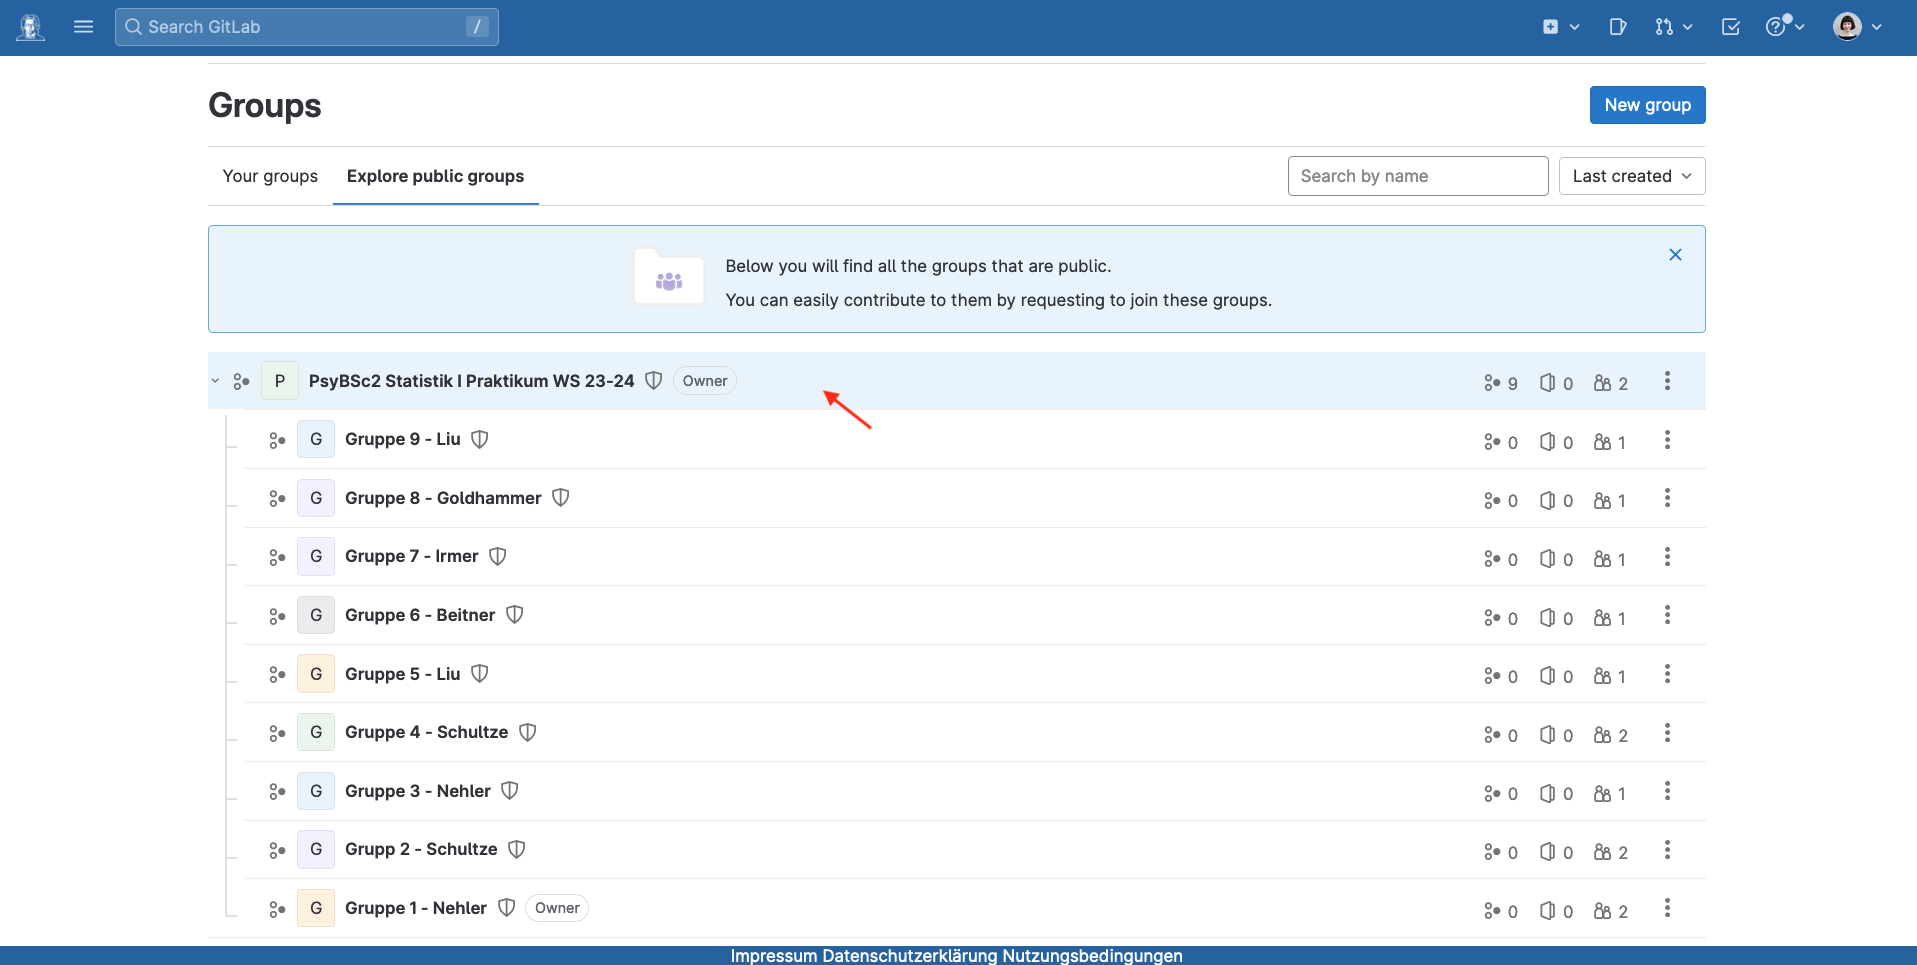
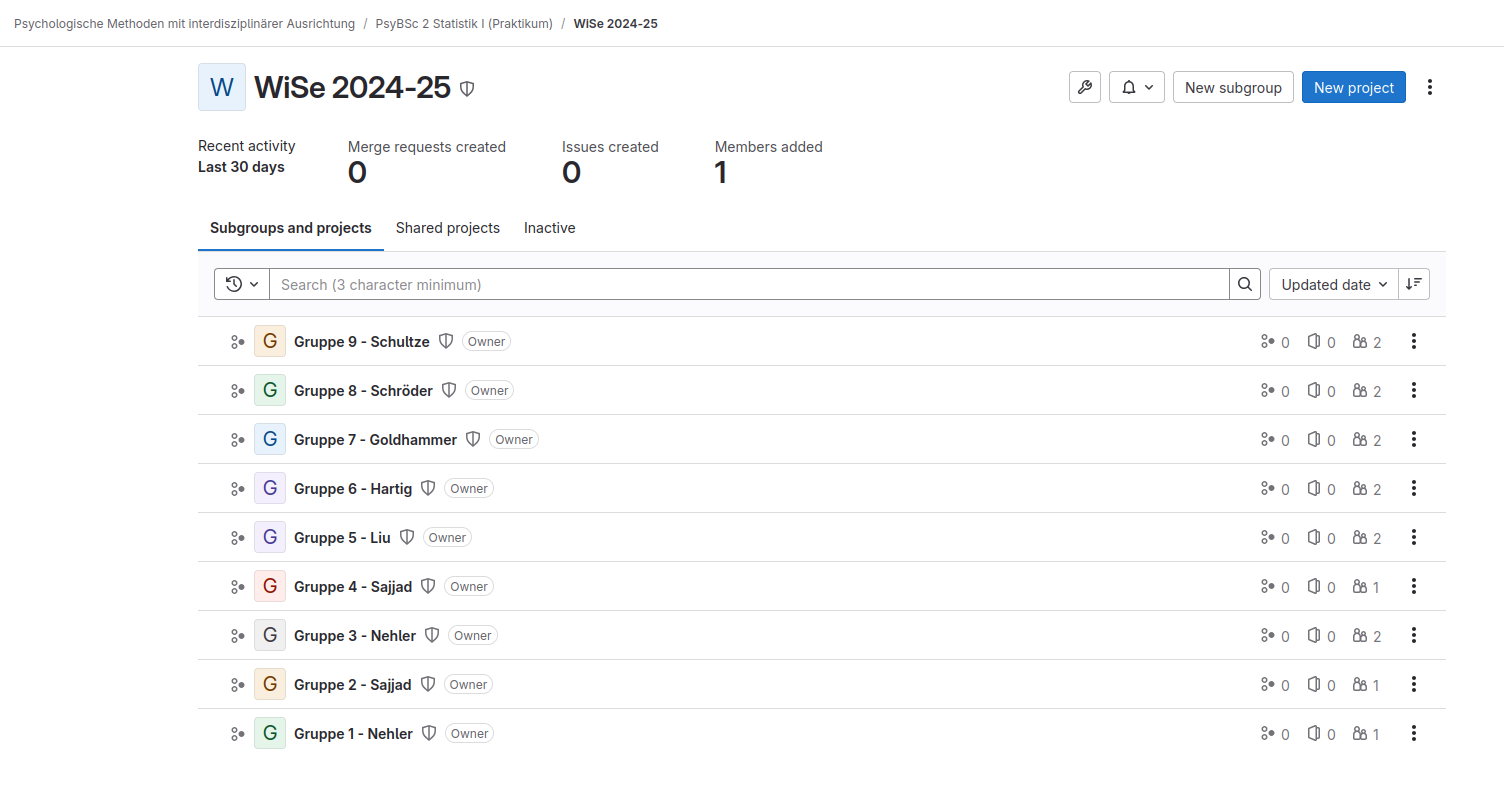
Update lifos and group project tutorials for new semester (minus requesting access).

diff --git a/content/lehre/statistik-i/gruppenprojekt.md b/content/lehre/statistik-i/gruppenprojekt.md
@@ -9,7 +9,7 @@ subtitle: ''
 summary: 'In diesem Beitrag finden Sie noch einmal alle Informationen, die das Gruppenprojekt betreffen, das Sie im Rahmen des Statistik-Praktikums durchführen. Dabei wird ausführlich auf die Generierung und Operationalisierung von Hypothesen eingegangen, außerdem gibt es Informationen zur Präregistrierung und zu der Erstellung des Ergebnisbericht, den Sie im Sinne von Open Science auf einer Übungsplattform bereitstellen sollen.' 
 authors: [nehler, beitner, schueller, schultze]
 weight: 14
-lastmod: '2024-04-02'
+lastmod: '2024-11-15'
 featured: no
 banner:
   image: "/header/frog_collective.jpg"
@@ -50,7 +50,7 @@ Bestandteile der Gruppenarbeit sind das Generieren und auch (mit Unterstützung)
 
 - Wie können geeignete [**Hypothesen generiert**](#Hypothesengenerierung) werden?
 - Wie können diese [**Hypothesen operationalisiert**](#Operationalisierung) werden?
-- Was ist [**Präregistrierung**](#Präregistrierung) und wie können Sie Ihr Projekt präregistrieren?
+- Was ist eine [**Präregistrierung**](#Präregistrierung) und wie können Sie Ihr Projekt präregistrieren?
 - Wie wird der [**Online-Fragebogen**](#Online-Fragebogen) umgesetzt?
 - Wie wird die [**Datenanalyse**](#Auswertung) ablaufen?
 - Was sind die Bestandteile ihres [**Ergebnisberichts**](#Bericht)?
@@ -187,6 +187,80 @@ Eine Präregistrierung hat zudem den positiven Nebeneffekt, dass Sie als Forsche
 
 Den ersten Kontakt mit Aspekten von Open Science sollen Sie in einem geschützten Umfeld haben, weshalb wir die Übungsplattform LIFOS erstellt haben. Eine ausführliche Beschreibung zur Navigation auf LIFOS im Rahmen des Praktikums finden Sie [hier](/lehre/statistik-i/quickguide-lifos).
 
+## Fragen der Präregistrierung
+
+In dem Dokument werden Sie zu 10 Bereichen befragt. Im Vergleich zu anderen Vorlagen ist das Dokument reduziert, enthält jedoch die wichtigsten Informationen.
+
+### 1) Autor:innen und Betreuungspersonen
+
+Hier tragen Sie bitte die Namen aller Gruppenmitglieder ein. Die Betreuungsperson ist in diesem Fall die Praktikumsleitung.
+
+
+### 2) Name
+
+Hier müssen Sie Ihrem Projekt einen aussagekräftigen Namen geben. Dieser kann auch englisch sein.
+
+
+### 3) Datenerhebung
+
+Hier wird danach gefragt, ob Sie für diese Untersuchung bereits Daten erhoben haben. Wenn dem so sein sollte, handelt es sich um eine *Sekundäranalyse* bereits bestehender Daten (mehr dazu in PsyBSc 1). Solche Studien sind zwar vollkommen legitime Möglichkeiten des Forschens, aber nicht für diese spezifische Präregistrierungsvorlage geeignet. Darüber hinaus geht es in diesem Modul darum, dass Sie erste Erfahrungen mit einer empirischen *Primäranalyse* sammeln. Letztlich ist es also nur legitim, Daten zu nutzen, die zum Zeitpunkt der Präregistrierung noch nicht gesammelt wurden und bei diesem Punkt wahrheitsgemäß "Nein" zu wählen.
+
+
+
+
+### 4) Hypothesen {#hypo}
+
+Hier geht es darum, dass Sie die Forschungsfragen und Hypothesen klar und eindeutig ausformulieren. Dazu können Sie z.B. nochmal in den [Abschnitt zur Hypothesengenerierung](#Hypothesengenerierung) rein gucken. Darüber hinaus sollten Sie diese Hypothesen aber unbedingt vor der Präregistrierung schon mit Ihrem/Ihrer Dozent:in besprochen haben. Für das Projekt in diesem Semester sollten Sie hier mindestens zwei Hypothesen aufstellen - eine Unterschieds- und eine Zusammenhangshypothese.
+
+
+
+<!-- ### 5) Variablen -->
+
+Hier geht es darum, die Variablen zu beschreiben, die in Ihren Hypothesen vorkommen. In den meisten Fällen psychologischer Forschung handelt es sich hier um psychische Konstrukte oder Eigenschaften von Personen, sodass es auch relevant ist hier klar zu machen, wie diese gemessen werden sollen - im Praktikum also die dafür verwendeten, vorher validierten Fragebögen.
+
+Weiterhin müssen Sie auch die demografischen Variablen aufführen und spezifizieren, wie diese erhoben werden sollen. Geben Sie vor allem auch die möglichen Antwortoptionen, bzw. das zugrundeliegende Skalenniveau an.
+
+### 6) Analysen
+
+An dieser Stelle geht es darum, klar darzulegen welche Analysen durchgeführt werden um die unter [Punkt 4](#hypo) dargelegten Hypothesen zu prüfen. Das heißt Ihnen sollte schon vor der Studie klar sein, welche Hypothese Sie mit welchem Verfahren prüfen können. Weil sich hier wahrscheinlich Tests und Verfahren eignen, die wir weder in der Vorlesung noch im Praktikum besprochen haben, wenn Sie die Präregistrierung abschließen, macht es hier sehr viel Sinn, Rücksprache mit Ihrem/Ihrer Dozent:in zu halten.
+
+
+### 7) Ausreißer und Ausschlüsse
+
+Einer der Schritte im Auswertungsprozess an dem es am häufigsten zu "Irregularitäten" kommt, ist der Ausschluss von Daten. Dieser Schritt soll dazu dienen, Daten von Personen auszuschließen die aus verschiedenen Gründe die wissenschaftliche Integrität der Untersuchung gefährden, z.B. durch:
+
+* Abbruch der Befragung
+* Absichtliches Fehlverhalten der Befragten, mit dem Ziel die Untersuchung zu stören
+* "Musterkreuzen", um die Befragung schnellstmöglich abzuschließen
+* Missverständnis der Aufgabenstellung
+
+Solche Fälle sollen identifiziert und möglichst ausgeschlossen werden. Aber auch Personen, die nicht zur *Zielpopulation* gehören, sollen idealerweise nicht in die Auswertung aufgenommen werden. Wenn Sie z.B. die aktuelle Stimmung von Studierenden untersuchen möchten, sollten Personen ausgeschlossen werden, die keine Studierenden sind. Wenn Sie sich darüber hinaus auf die gesunde Grundgesamtheit Psychologiestudierender beziehen wollen, sollten Sie diejenigen Personen ausschließen können, die an einer diagnostizierten affektiven Störung (z.B. einer Depression) leiden. All diese möglichen Gründe, Personen auszuschließen, sollten vorab bedacht werden und es sollten klar Regeln dazu aufgestellt werden, wann Daten aus der Analyse ausgeschlossen werden. Durch Willkür in diesem Punkt können sich Ergebnisse sehr leicht manipulieren lassen, wodurch die Vertrauenswürdigkeit der Studie verloren geht.
+
+Ausreißerdiagnostik beschäftigt sich mit Personen, die ungewöhnliche Werte oder Wertkonstellationen aufweisen. Dabei wird häufig geschaut, ob sie einen überproportionalen Einfluss auf die Ergebnisse haben und sich durch ihre Anwesenheit die Ergebnisse verzerren. Auch hier sollten klare Regeln aufgestellt werden, wann Personen als Ausreißer identifiziert und ausgeschlossen werden. Damit werden wir uns allerdings erst im nächsten Semester näher beschäftigen.
+
+
+
+### 8) Stichprobengröße und -erhebung
+
+Wie viele Personen möchten Sie erheben? In den meisten Fällen kann vorab mittels einer sog. *Poweranalyse* bestimmt werden, wie viele Personen Sie erheben müssen, um mit adäquater Irrtumswahrscheinlichkeit Ihre Hypothesen prüfen zu können. Wichtig ist hier, dass Sie sich durch die hier angegeben Zahl verpflichten, die Erhebung dieser Anzahl von Personen mit allen Ihnen zur Verfügung stehenden Mitteln zu versuchen.
+
+Die Poweranalyse lernen wir erst im Laufe des Semesters kennen und können Sie deshalb jetzt noch nicht durchführen. Die Zielgröße für unsere Studien legen wir deshalb pauschal auf 40 Versuchspersonen fest.
+
+Auch der Zeitraum der Erhebung wird in diesem Punkt festgelegt. Hier sollten Sie sich überlegen, wie lange Sie brauchen, um die gewünschte Anzahl an Personen zu erheben. Auch hier sollten Sie sich durch die Angabe verpflichten, die Erhebung in diesem Zeitraum durchzuführen. Im Rahmen des Praktikums wird dieser Zeitraum von der Praktikumsleitung festgelegt.
+
+
+### 9) Kontext
+
+Hier muss angegeben werden, in welchem Kontext die Studie durchgeführt wird. Das kann z.B. ein Praktikum, eine Abschlussarbeit oder eine Studie im Rahmen eines Seminars sein. Weiterhin ist auch interessant, ob die präregistrieten Vorhaben eine alleinige Studie darstellen, oder, ob sie in einem größeren Forschungsvorhaben bzw. in einger größeren Befragung eingebettet sind. 
+
+### 10) Sonstiges
+
+In diesem Feld geht es vor allem darum, zusätzliche Untersuchungsschritte festzuhalten, die nicht an klare Hypothesen gebunden sind. Das betrifft vor allem *explorative Analysen*, also Analysen, die sich auf Forschungsfragen beziehen, zu denen Sie noch keine konkreten Annahmen generieren konnten. Ziel solcher Exploration ist es, eine empirische Grundlage für die Theoriebildung für zukünftige Studien zu entwickeln.
+
+
+
+
+
 # 4. Erstellung des Fragebogens {#Online-Fragebogen}
 Fragebögen können in Papierform oder auch online durchgeführt werden. In diesem Praktikum wird die Datenerhebung über einen Online-Fragebogen durchgeführt. Sie müssen den Fragebogen nicht selber erstellen -- dies wird von der Praktikumsleitung übernommen. Der erstellte Fragebogen umfasst dann alle Fragestellungen aus Ihrer Praktikumsgruppe. Damit genug Personen erhoben werden können, bewerben Sie den Fragebogen (besonders bei anderen Psychologie-Studierenden, denn es können Versuchspersonenminuten gesammelt werden).
 
@@ -220,12 +294,12 @@ Auch bei der Abgabe Ihrer Studienleistung legen wir auf das Üben von Open Scien
 
 Bitte beachten Sie zusammenfassend: 
 * jeweils eine Unterschieds- und Zusammenhangshypothese -- stimmen Sie die entwickelten Hypothesen mit dem/der Dozent:in Ihres Kurses ab
-* Operationalisierung für zusätzliche Variablen im Rahmen Ihrer Hypothesen muss mit Praktikumsleitung abgesprochen werden $\rightarrow$ **Stichtag 26.11.2023**
-* Präregistrierung Ihres Forschungsvorhabens ist Pflicht $\rightarrow$ **Stichtag für erste Abgabe 15.12.2023** -- **(eventuell) final nach Einarbeitung von Feedback bis zum 22.12.2023**
+* Operationalisierung für zusätzliche Variablen im Rahmen Ihrer Hypothesen muss mit Praktikumsleitung abgesprochen werden 
+* Präregistrierung Ihres Forschungsvorhabens ist Pflicht 
 * Bewerben Sie die Umfrage aus Ihrem Praktikum in Gruppen -- Teilnahme an den Studien bringt Versuchspersonenminuten
 * Auswertung wird in einem Präsenztermin gestartet, muss dann aber als Gruppe weitergeführt werden
 * Anschlussbericht muss verfasst werden [hier](/lehre/statistik-i/ergebnisbericht)
-* Dokumente (Bericht, Material, kommentierte Code, Datensatz) müssen auf der Open Science Übungsplattform LIFOS hochgeladen werden $\rightarrow$ **Stichtag 04.02.2024**
+* Dokumente (Bericht, Material, kommentierte Code, Datensatz) müssen auf der Open Science Übungsplattform LIFOS hochgeladen werden
 
 <!-- #### Alte Infos -->
 

diff --git a/content/lehre/statistik-i/quickguide-lifos.md b/content/lehre/statistik-i/quickguide-lifos.md
@@ -9,7 +9,7 @@ subtitle: ''
 summary: 'In diesem Beitrag wird Ihnen eine kurze Einführung in LIFOS (Lokale Infrastruktur für Open Science) gegeben. Hierbei handelt es sich um eine universitätsinterne Übungsplattform für Psychologie-Studierende der Goethe Universität, die es Ihnen ermöglichen soll, Open Science Praktikem in einem geschützten Raum zu üben. In diesem Quickguide wird Ihnen erklärt, wie Sie sich bei LIFOS anmelden und Ihr Projekt am richtigen Ort anlegen. Außerdem wird erläutert, welche Schritte Sie im Rahmen Ihres Praktikums auf LIFOS durchführen sollen.' 
 authors: [beitner, nehler]
 weight: 12
-lastmod: '2024-04-02'
+lastmod: '2024-11-15'
 featured: no
 banner:
   image: "/header/frog_collective.jpg"
@@ -64,16 +64,18 @@ Wie wir bereits besprochen haben, sollen Sie im Rahmen des Praktikums eine erste
 <ol><li><p><b>Loggen Sie sich auf LIFOS ein</b></p> 
 Hierfür benötigen Sie lediglich die Zugangsdaten Ihres HRZ-Kontos.</li> 
 
-<li><p><b>Finden Sie Ihre Praktikums-Gruppe und beantragen Sie Zugang</b></p>
-Projekte auf LIFOS müssen in den jeweiligen Abteilungen/Kursen angelegt werden, um auch diesen zugeordnet werden zu können. Das heißt, Sie müssen erst Mitglied Ihrer PsyBSc2 Praktikumsgruppe auf LIFOS werden, um dann in ebenjener Gruppe ein Projekt anzulegen. Um die Gruppe auf LIFOS zu finden, klicken Sie oben links auf die drei Striche, dann auf *Groups*, dann auf *View all groups*. </li></ol>
+<li><p><b>Gruppenübersicht anzeigen</b></p>
+Projekte auf LIFOS müssen in den jeweiligen Abteilungen/Kursen angelegt werden, um auch diesen zugeordnet werden zu können. Das heißt, Sie müssen erst Mitglied Ihrer PsyBSc2 Praktikumsgruppe auf LIFOS werden, um dann in ebenjener Gruppe ein Projekt anzulegen. Um die Gruppe auf LIFOS zu finden, klicken Sie im Steuerungsmenü auf der linken Seite auf <b>Groups</b>, dann im Hauptfenster auf <b>Explore groups</b> (direkt neben <b>New Group</b>). </li>
 
 ![](/lehre/statistik-i/quickguide-lifos01.png)
 
-Danach müssen Sie noch oben auf *Explore public groups* klicken. Nun können Sie alle öffentlichen Gruppen auf LIFOS sehen. Schauen Sie nach der Gruppe **PsyBSc2 Statistik I Praktikum WS 23-24**. Nach einem Klick ins freie Feld werden Ihnen alle neun Praktikumsgruppen angezeigt. 
+<li><p><b> Zur Gruppe navigieren </b></p> 
+Nun können Sie alle öffentlichen Gruppen auf LIFOS sehen. Zunächst müssen Sie auf die Gruppe <b>Psychologische Methoden mit interdisziplinärer Ausrichtung</b>, dann wiederum auf <b>PsyBSc 2 Statistik I (Praktikum)</b>, dann auf <b>WiSe 2024-25</b> klicken. Jetzt sollten Ihnen alle neun Praktikumsgruppen angezeigt werden. </li>
 
 ![](/lehre/statistik-i/quickguide-lifos02.png)
 
-Klicken Sie auf Ihre Gruppe. Oben steht nun blau hinterlegt *Request access*. Klicken Sie drauf und bestätigen Sie. Gratulation! Sie haben so eben einen wichtigen Schritt gemeistert und Zugriff zu Ihrer Praktikumsgruppe beantragt. Sobald Ihr Dozent/Ihre Dozentin Ihre Anfrage bestätigt hat, können Sie und Ihre Gruppe loslegen.
+<li><p><b> Zugang beantragen </b></p>
+Klicken Sie auf Ihre Gruppe. Oben steht nun blau hinterlegt <b>Request access</b>. Klicken Sie drauf und bestätigen Sie. Gratulation! Sie haben so eben einen wichtigen Schritt gemeistert und Zugriff zu Ihrer Praktikumsgruppe beantragt. Sobald Ihr Dozent/Ihre Dozentin Ihre Anfrage bestätigt hat, können Sie und Ihre Gruppe loslegen.</li></ol>
 
 
 # Auf LIFOS ein Projekt anlegen {#projektstart}
@@ -87,7 +89,7 @@ Dadurch können andere später leichter nachvollziehen, wer an dem Projekt mitge
 ![](/lehre/statistik-i/quickguide-lifos03.png)
 
 Alright, klicken Sie den *Create project* Knopf und schon steht Ihr Projekt!
-Dadurch, dass Sie das Projekt basierend auf dem PsyBSc2 Template initialisiert haben, werden Ihnen bereits wichtige Strukturen vorgegeben (die sich aber auch bei Bedarf ändern und anpassen lassen). Alle weiteren Schritte werden von nun auch im README eures Projekts angezeigt, der Vollständigkeit halber aber auch nochmal hier. Für tiefergehende Informationen über LIFOS können wir euch unsere [generellen Tutorials auf pandaR](https://pandar.netlify.app/lifos/main/) ans Herz legen.
+Dadurch, dass Sie das Projekt basierend auf dem PsyBSc2 Template initialisiert haben, werden Ihnen bereits wichtige Strukturen vorgegeben (die sich aber auch bei Bedarf ändern und anpassen lassen). Alle weiteren Schritte werden von nun auch im README eures Projekts angezeigt, der Vollständigkeit halber aber auch nochmal hier. Für tiefergehende Informationen über LIFOS können wir euch unsere [generellen Tutorials auf pandaR](/lifos/main/) ans Herz legen.
 
 
 # Bearbeitung von Projekten auf LIFOS {#bearbeitung}
@@ -101,7 +103,9 @@ Auf LIFOS kann man Projekte bearbeiten, indem man Dateien und Ordner hinzufügt,
 
 Eine Präregistrierung ist ein Dokument mit einem Zeitstempel, dass Informationen über die Studie beinhaltet, die bereits vor der Datenerhebung festliegen und so transparent festgehalten werden. Dazu zählen insbesondere Informationen über die Hypothesen und die statistische Auswertung, wie zum Beispiel welche Konstrukte erhoben werden, welche Fragebögen dafür verwendet werden, und welche Methoden man verwendet, um die Hypothese zu testen. Außerdem hilft eine Präregistrierung dabei, das Projekt schon vor Durchführung ausführlich zu durchdenken und so Fehler oder Probleme noch vor dem Auftreten entdecken und beheben zu können. 
 
-In Ihrem Projekt auf LIFOS finden Sie im Ordner *1_Präregistrierung* ein Word-Dokument namens *PsyBsc2_preregistration.docx*. Laden Sie dieses herunter und füllen Sie es aus. Auch hier reicht es aus, wenn Sie gemeinsam als Gruppe *eins* ausfüllen. Schicken Sie es dann Ihrem Dozenten/Ihrer Dozentin, um Feedback zu erhalten. Nachdem Sie das Feedback eingearbeitet haben und Ihre Präregistrierung abgesegnet wurde, können Sie Ihre Präregistrierung als PDF-Dokument wieder hochladen. Die Zeit, zu der das Dokument hochgeladen wird, wird als Zeitstempel für die Präregistrierung verwendet. Die Word-Datei können Sie dann aus Ihrem Projekt entfernen.
+In Ihrem Projekt auf LIFOS finden Sie im Ordner *1_Präregistrierung* eine Datei namens *PsyBsc2_preregistration.md*. Die Datei im Markdown-Format geschrieben. Der Vorteil an dem Format ist, dass diese Datei in jedem beliebigen Texteditor geöffnet und bearbeitet werden kann. Neben der lokalen Bearbeiter auf Ihrem Computer nach einem Download kann die Datei auch direkt auf LIFOS im Editor bearbeitet werden. Wie man Markdown verwendet, können Sie [hier](/lifos/grundlagen/eigenesprojekt/), [hier](/lifos/extras/basic-markdown-uebung/) und [hier](https://www.markdownguide.org/basic-syntax/) erfahren.
+
+Pro Gruppe muss nur eine Präregistrierung erstellt werden. Laden Sie das ausgefüllte Dokument hoch (falls Sie die Bearbeitung nicht direkt auf LIFOS gemacht haben) und sagen Sie Ihrer Praktikumsleitung Bescheid, um Feedback zu erhalten. Nachdem Sie das Feedback eingearbeitet haben und Ihre Präregistrierung abgesegnet wurde, können Sie diese erneut hochladen. Die Zeit, zu der das Dokument hochgeladen wird, wird als Zeitstempel für die Präregistrierung verwendet. 
 
 
 # Analysecode {#analysen}
@@ -117,7 +121,7 @@ Dies gilt ebenso für das Datenset, welches in *4_Daten* hochgeladen werden soll
 # Projektabschluss {#projektabschluss}
 
 Wenn Sie mit Ihrem Gruppenbericht fertig sind, laden Sie die finale PDF-Version Ihres Berichts im Ordner *5_Bericht* hoch.
-Zu guter Letzt, gibt es dann noch das *README.md*-Dokument. Das README ist eine Markdown-Textdatei, die Informationen über Ihr Projekt enthalten soll, einschließlich Zweck, Inhalt und weitere Details. Sie befindet sich normalerweise im Stammverzeichnis. Die README-Datei dient als Schnellreferenz für jeden, der versucht, euer Projekt zu verstehen oder zu verwenden, und ist eine wichtige Ressource für jeden, der auf sie stößt. Die Datei ist mit der Sprache Markdown formatiert. Wie man Markdown verwendet, können Sie [hier](https://pandar.netlify.app/lifos/grundlagen/eigenesprojekt/), [hier](https://pandar.netlify.app/lifos/extras/basic-markdown-uebung/) und [hier](https://www.markdownguide.org/basic-syntax/) erfahren. Wenn Sie die README-Datei angepasst haben und alle Dateien wie beschrieben hochgeladen haben, sind Sie mit Ihrem Projekt auf LIFOS fertig :)
+Zu guter Letzt, gibt es dann noch das *README.md*-Dokument. Das README ist - wie auch die Präregistrierung - eine Markdown-Textdatei. Sie soll Informationen über Ihr Projekt enthalten soll, einschließlich Zweck, Inhalt und weitere Details. Sie befindet sich normalerweise im Stammverzeichnis. Die README-Datei dient als Schnellreferenz für jeden, der versucht, euer Projekt zu verstehen oder zu verwenden, und ist eine wichtige Ressource für jeden, der auf sie stößt. Wenn Sie die README-Datei angepasst haben und alle Dateien wie beschrieben hochgeladen haben, sind Sie mit Ihrem Projekt auf LIFOS fertig :)
 
 ## Hilfestellung{#Hilfe}
 
